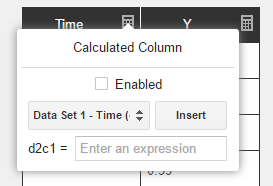
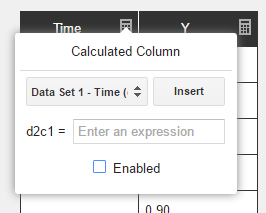
More progress on Data Sets tutorial.

Changed region(s): [[0.0301, 0.0269, 0.9925, 1.0], [0.2707, 0.2151, 0.6917, 0.2957], [0.6316, 0.4032, 0.782, 0.457]]

diff --git a/docs/tutorials/advanced_data_sets.md b/docs/tutorials/advanced_data_sets.md
@@ -78,8 +78,30 @@ Next, click the calculator icon in the top right of the first column.  You will 
 
 <div class="centered"><img src="../../img/advanced_data_sets/open_calc_col.png"></div>
 
-By default, all columns just accept the values that are typed into them, but each column has the option to have its values be calculated from the values of another column. [More to come]
+Every column can be configured to calculate its values from the values of other columns.  In this case, we want the column to simply mirror the values from Time column of the first Data Set.
+
+To do this, select **Data Set 1 - Time (d1c1)** from the dropdown menu and click **Insert**.  Every column has a code name for simple referencing, so when you see `d2c1 = d1c1`, that means that the values from column 1 of Data Set 2 should equal the values from column 1 of Data Set 1.  Recognizing how easy it is to lose track of these code names, we included the dropdown menu to make it easier to get the name of the column you're looking for.
+
+Check the **Enabled** check box to make the calculations take effect.  Now all of the Time values should have automatically filled the column:
+
+<div class="centered"><img src="../../img/advanced_data_sets/calc_col.png"></div>
+
+!!! info "Note"
+    Calculated columns cannot be edited since they are generated from other columns.  They are turned yellow to remind you of this:
+
+### Benefits
+You may be wondering why we took this round-about way of getting the time values into a second column.  What's wrong with copying and pasting?
+
+Well, in this experiment it wouldn't have been so bad to simply copy and paste, but imagine an experiement where you were plotting **ten different dependent variables** against the same independent variable.  Not only would you have to copy and paste the same data ten times, but if you ever discovered a mistake, you would have to correct it in **ten different places**.
+
+When you are using Calculated Columns, changes to the source column will propagate out to all the columns that depend on it, saving you time and mistakes.
 
 ---
 ## Generating Columns
-...
+If all has gone well thus far, your graph should look something like this:
+
+<div class="centered"><img src="../../img/advanced_data_sets/progress.png"></div>
+
+Now suppose that we want to overlay a third Data Set showing the total distance between the ball and the origin.  We can calculate the values easily using the Euclidean distance forumla, ![Euclidean distance forumula](../img/advanced_data_sets/euclid_dist.png), but crunching all of the numbers by hand is tedious.  This would be another great place to make use of Calculated Columns.
+
+[More to come...]
